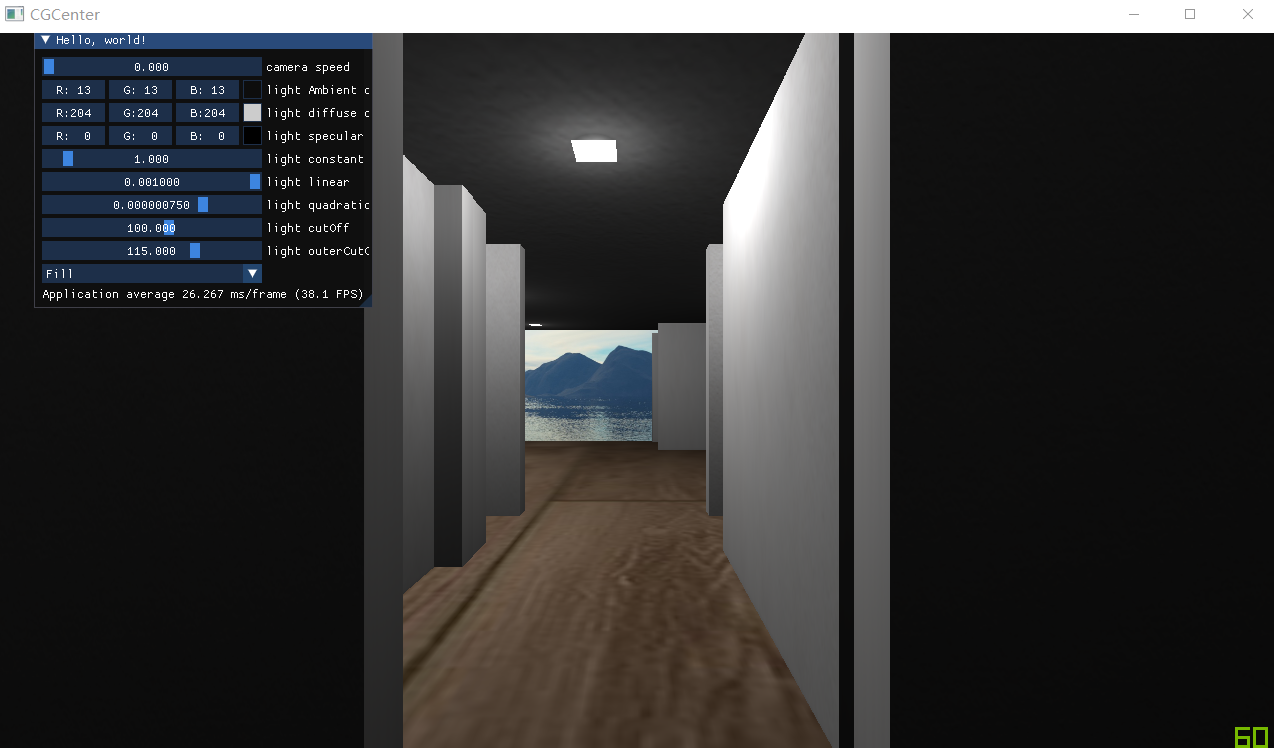
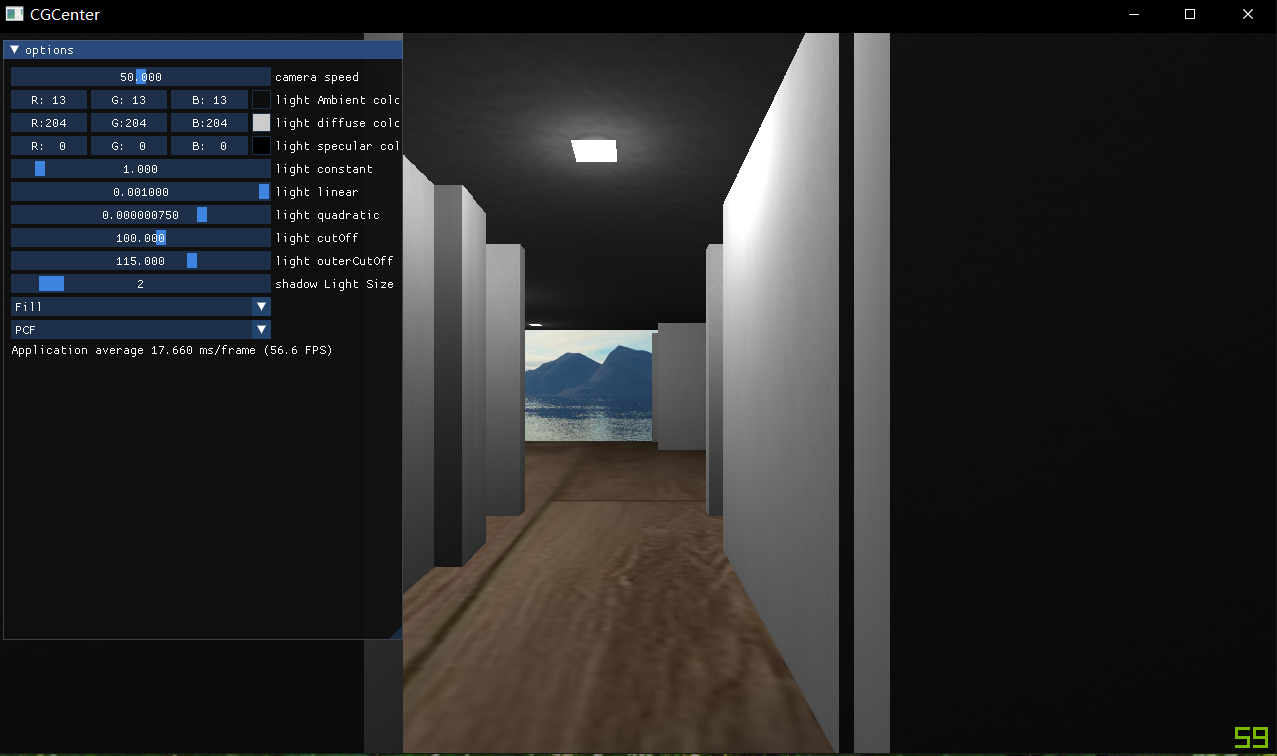
update vsm

diff --git a/README.md b/README.md
@@ -41,6 +41,7 @@ a compute graphics learning &amp; coding center
   - [ ] 延迟光照 deferred lighting、light pre-pass
   - [ ] 延迟贴图 deferred texture
 - 拾取功能
+- 重构ECS
 
 ### 阴影 Shadow 
 
@@ -48,8 +49,8 @@ a compute graphics learning &amp; coding center
 - [ ] CSM-hard  ——**计划11月7日前完成**
 - [x] shadow-bias
 - [x] PCF
-- [ ] PCSS ——计划11月21日前完成
-- [ ] VSM ——计划11月28日前完成
+- [x] PCSS
+- [x] VSM
 
 ### 全局光照 GI
 
